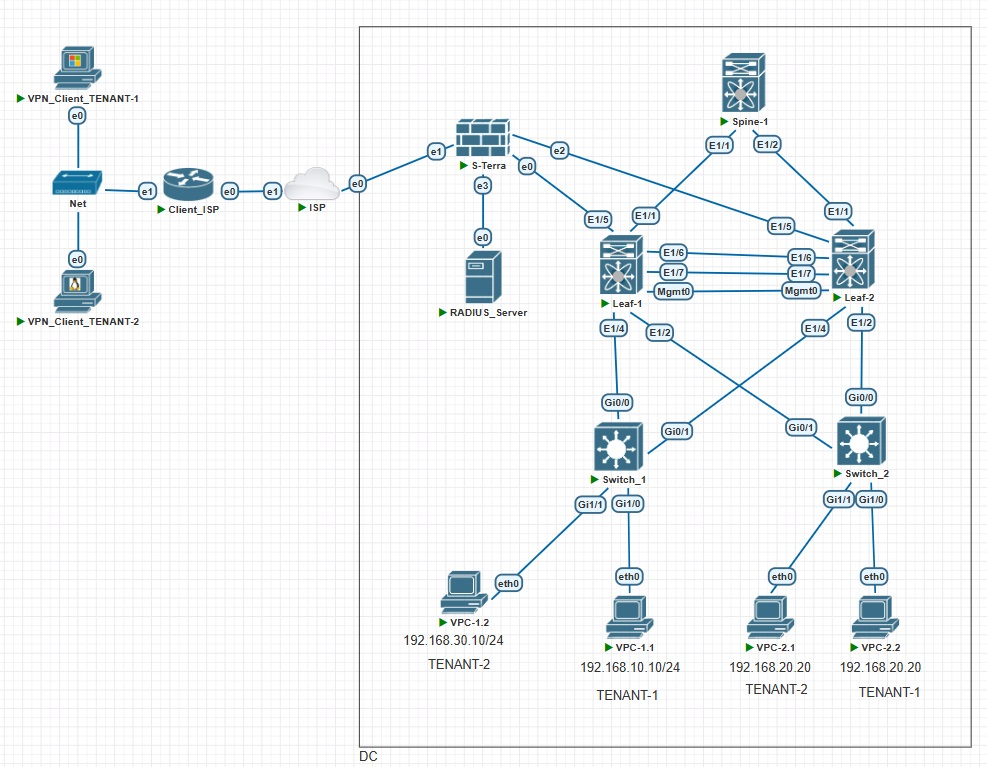
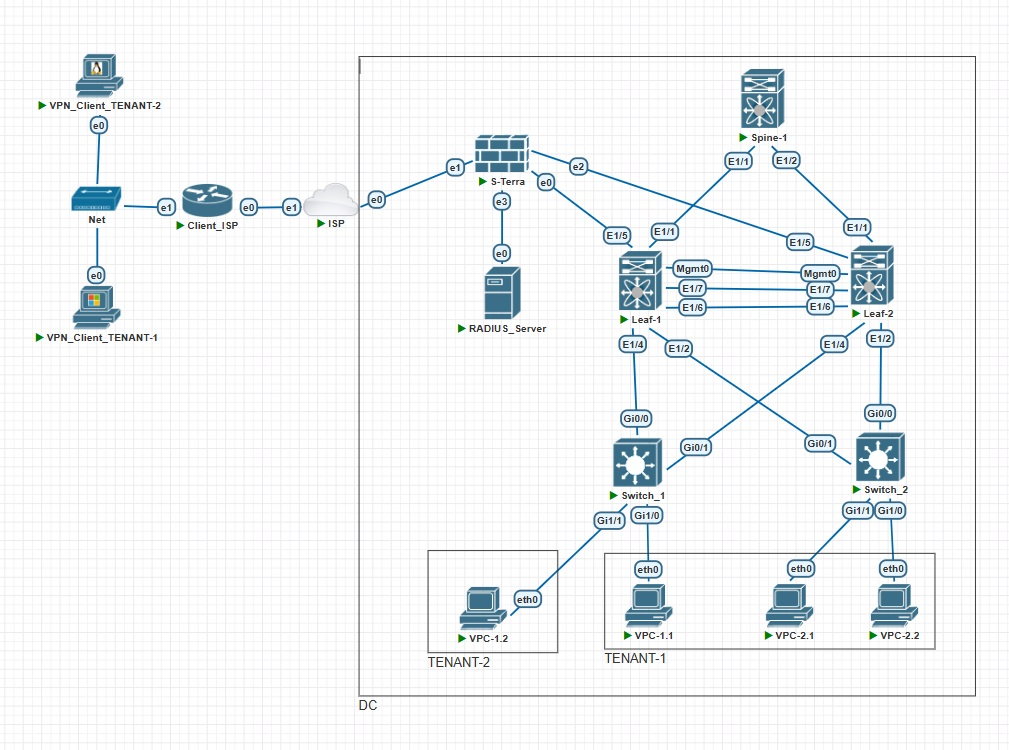
м

diff --git a/labs/project/README.md b/labs/project/README.md
@@ -2,7 +2,7 @@
 
 ### Цель
 
-- Реализовать передачу суммарных префиксов через EVPN route-type 5
+- Реализовать удаленный доступ к ресурсам ЦОД
 
 ## Задачи
 
@@ -35,7 +35,7 @@ Leaf2|Lo0|2.2.2.2/32|
 -|Eth1/3|VLAN 30|Link to VPC2.2|
 VPC1.1|Eth0|192.168.10.10/24|TENANT-1|
 VPC1.2|Eth0|192.168.30.10/24|TENANT-2|
-VPC2.1|Eth0|192.168.20.20/24|TENANT-2|
+VPC2.1|Eth0|192.168.10.20/24|TENANT-2|
 VPC2.2|Eth0|192.168.20.20/24|TENANT-1|
 
 ### 2.1 Настройка тенантов на Leaf
